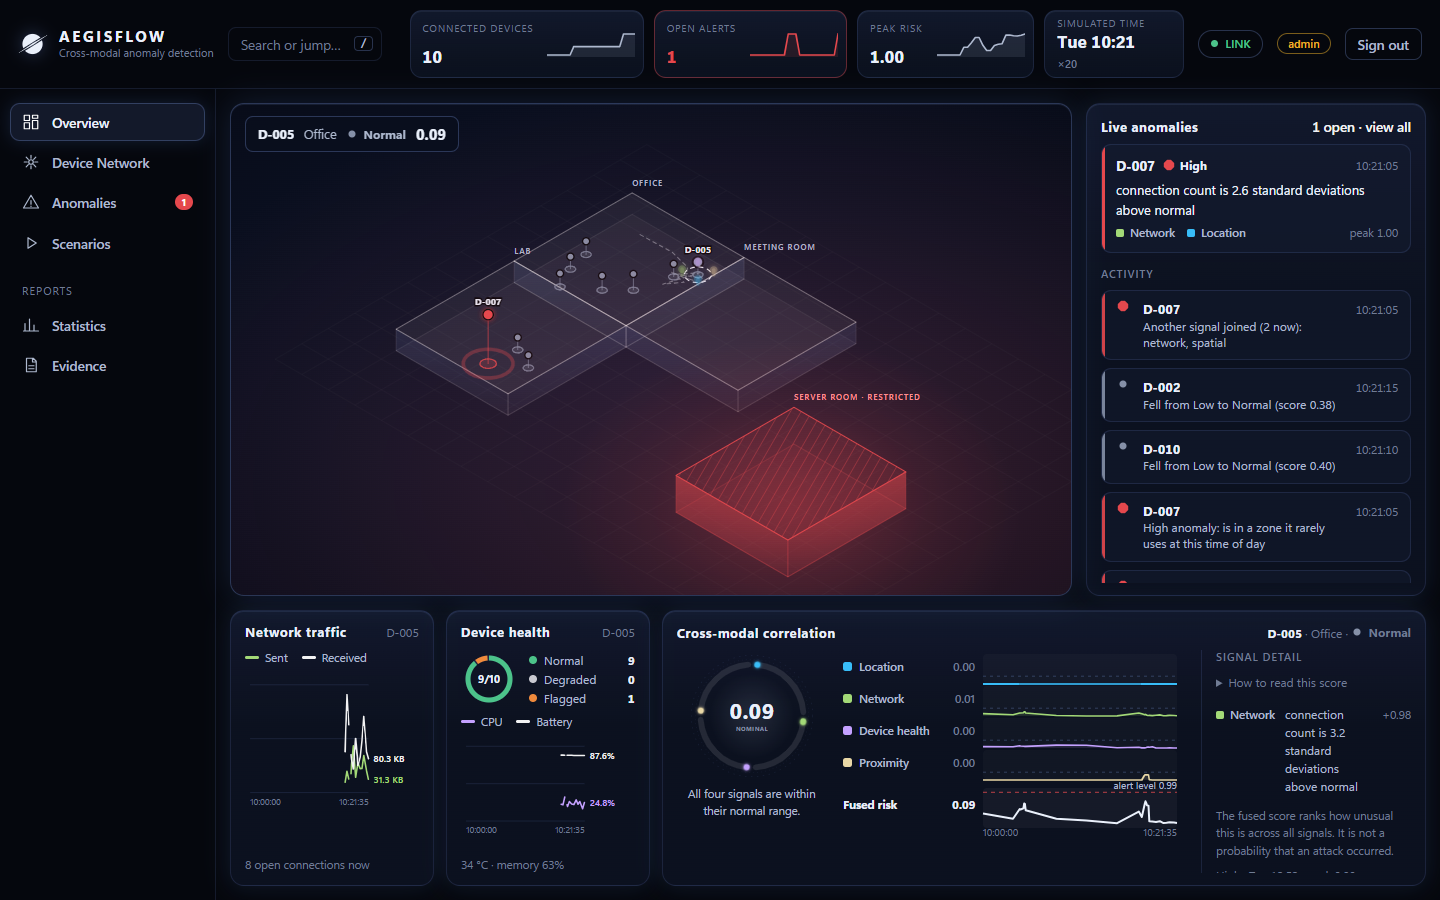
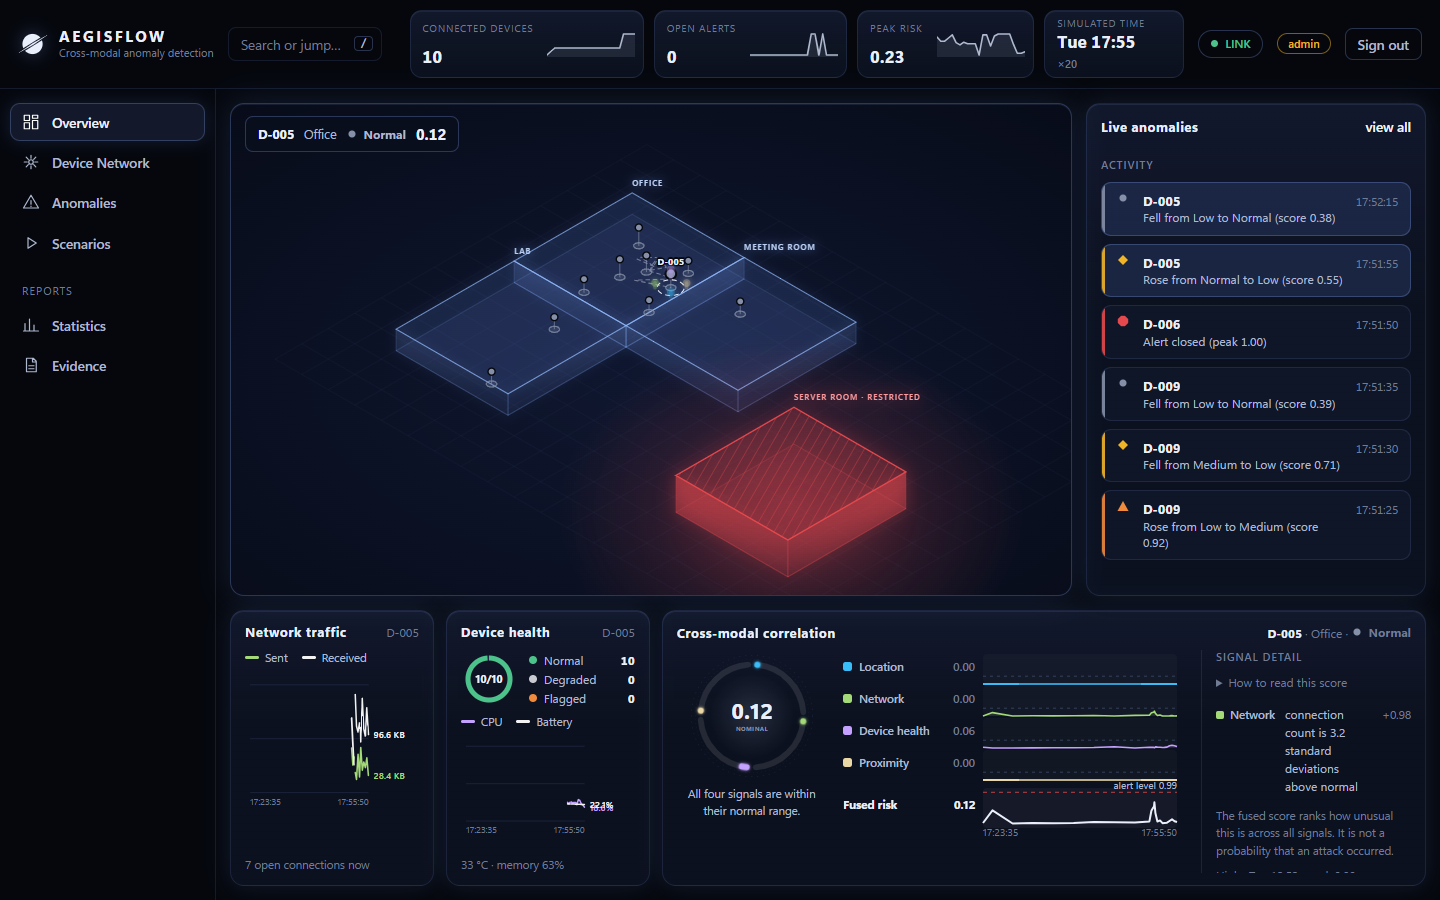
Map: rooms drawn in cool edge light with a soft glow, the restricted room glows red; screenshots regenerated

diff --git a/frontend/src/styles.css b/frontend/src/styles.css
@@ -444,3 +444,13 @@ table.data tr.sel td { background: var(--accent-soft); }
 @media (prefers-reduced-motion: no-preference) { .login-art .art-logo { animation: float 7s ease-in-out infinite; } }
 .brand { min-width: 0; flex: none; }
 .brand-text span { white-space: nowrap; }
+
+/* map glow: rooms are drawn in cool light; the restricted room glows red. Chrome only: the data colours are untouched. */
+.floor-grid line { stroke: rgba(120, 160, 255, 0.09); }
+.vol-floor { fill: rgba(110, 150, 255, 0.045); stroke: rgba(130, 170, 255, 0.22); }
+.vol-side { stroke: rgba(140, 180, 255, 0.34); }
+.vol-top { fill: rgba(110, 150, 255, 0.09); stroke: rgba(150, 190, 255, 0.7); stroke-width: 0.34; }
+.vol:not(.hot) { filter: drop-shadow(0 0 1.6px rgba(110, 160, 255, 0.55)); }
+.vol-label { fill: #bcd0f5; }
+.vol.hot { filter: drop-shadow(0 0 2.6px rgba(229, 72, 77, 0.7)); }
+.vol.hot .vol-top { stroke-width: 0.42; }
